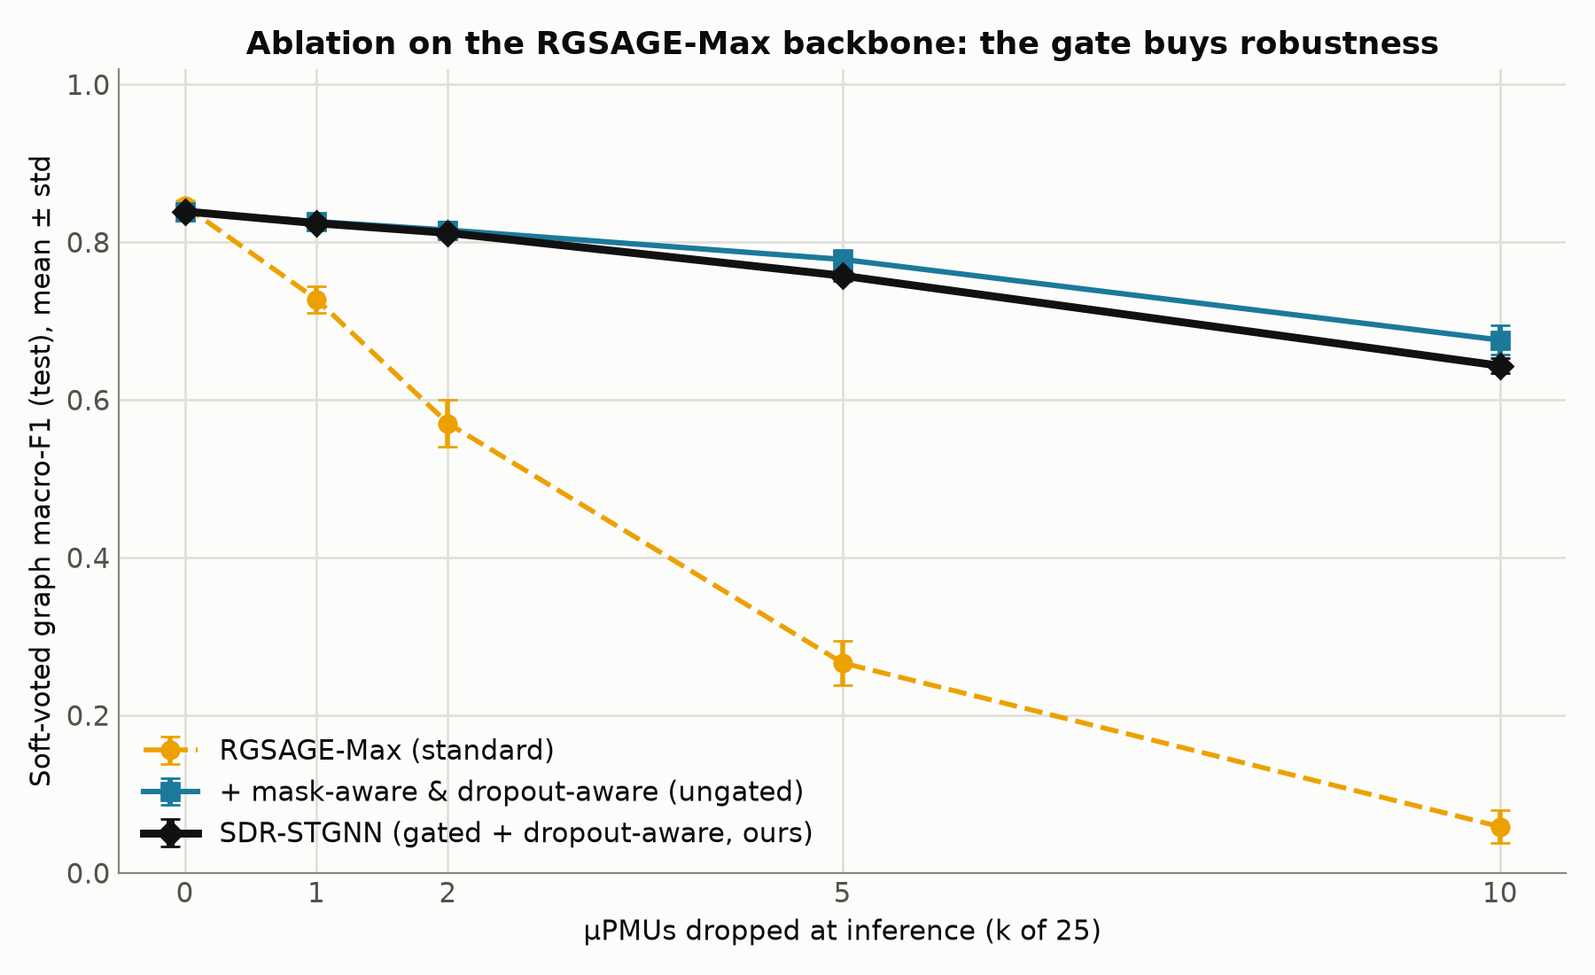
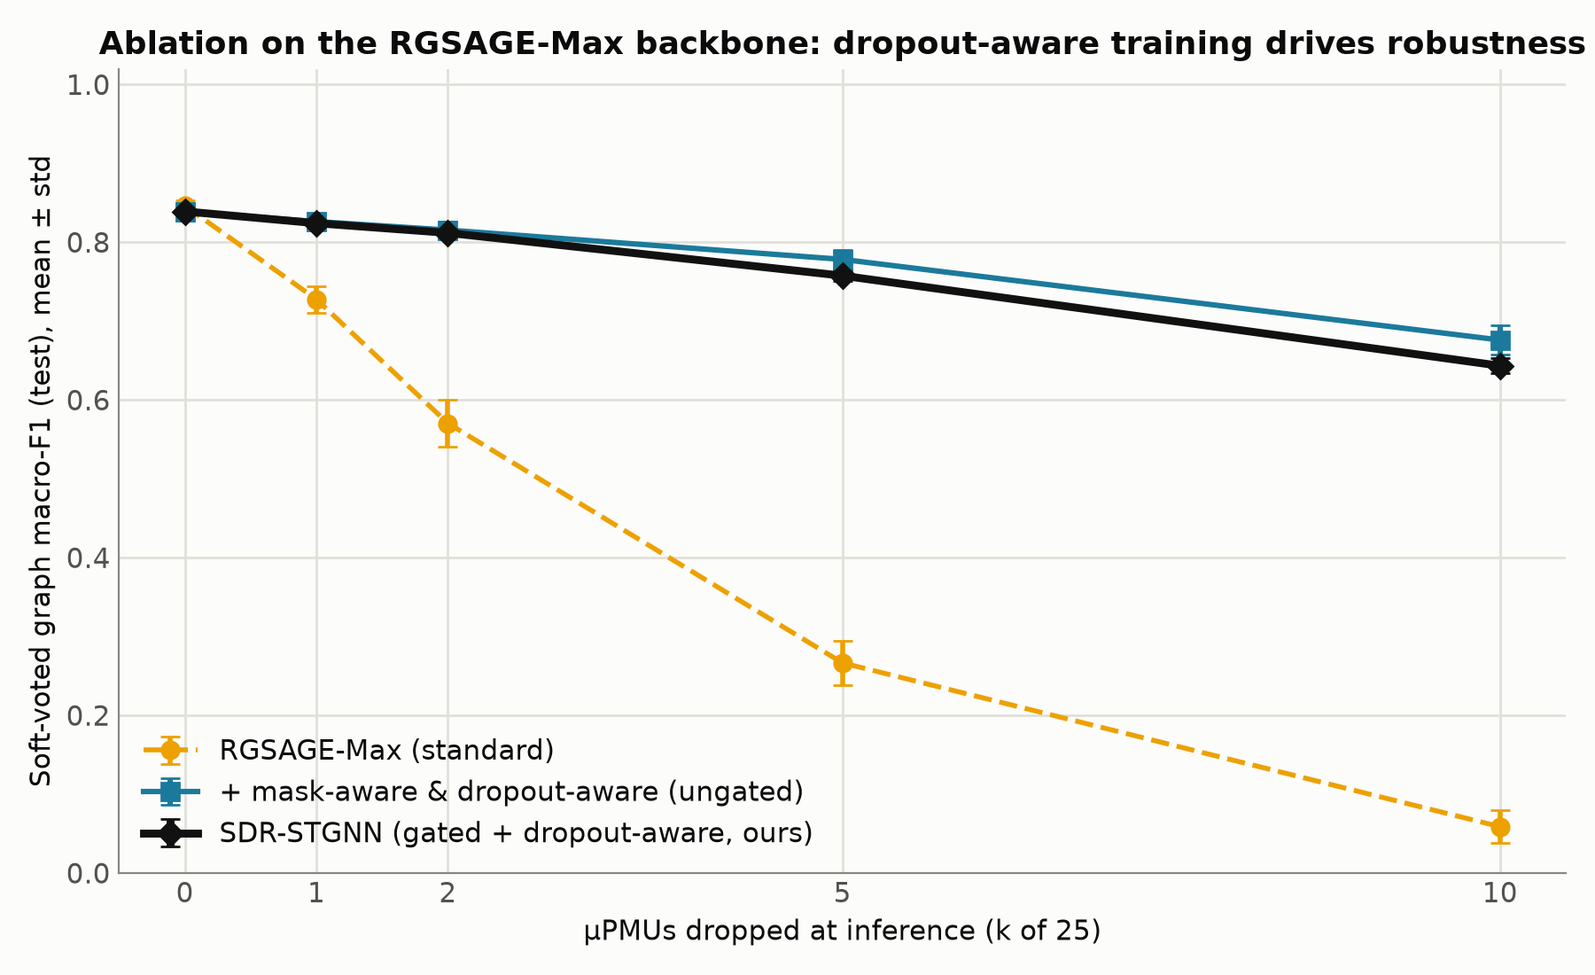
Green feeder removed the claim

Changed region(s): [[0.0622, 0.0309, 0.9956, 0.0618]]

diff --git a/paper/overleaf.tex b/paper/overleaf.tex
@@ -211,7 +211,7 @@ Power System \sep fault location \sep Time Series \sep Graph Neural Networks \se
 
 Rapid and accurate fault localization in electrical power distribution grids is essential for automated restoration in modern power distribution grids. As feeders absorb growing shares of DERs and adopt self-healing schemes, how effectively and precisely a system can identify where a fault occurred - not merely that one occurred - determines how much of the network can be re-energized before crews are dispatched. Traditional impedance-based and traveling-wave methods assume dense measurement coverage across the feeder. In practice, micro-phasor measurement units ($\mu$PMUs) are installed at only a few buses because they are costly and require communication infrastructure, so a feeder with hundreds of buses may host only a handful of $\mu$PMUs. Any practical fault-localization method must therefore operate under partial observability.
  
-Graph neural networks (GNNs) are a natural fit for this setting, as the feeder's known topology can be encoded as a graph over which message passing shares information between connected buses, letting the model infer a fault even at a bus with no measurement device. Karabulut et al.~\cite{Karabulut2026} demonstrated this with a spatio-temporal graph neural network (STGNN) that pairs a GRU temporal encoder with a graph stage (RGCN, RGSAGE, or RGATv2). They evaluated these models on the IEEE 123-bus feeder with 25 sparsely placed $\mu$PMUs, 25 possible fault locations, 11 fault types, and three fault resistances, predicting one of 26 classes (25 fault locations and one no-fault class) over a measured-only graph whose nodes are the instrumented buses. Their STGNN models achieved a macro-F1 of about 94.7--94.9\%, against 86.3\% for a GRU-only model; under a reconfigured feeder with weaker fault signals they held 86.2--87.9\%, while the GRU-only model fell to 75.5\%.
+Graph neural networks (GNNs) are a natural fit for this setting, as the feeder's known topology can be encoded as a graph over which message passing shares information between connected buses, letting the model infer a fault even at a bus with no measurement device. Karabulut et al.~\cite{Karabulut2026} demonstrated this with a spatio-temporal graph neural network (STGNN) that pairs a GRU temporal encoder with a graph stage (RGCN, RGSAGE, or RGATv2). They evaluated these models on the IEEE 123-bus feeder with 25 sparsely placed $\mu$PMUs, 25 possible fault locations, 11 fault types, and three fault resistances, predicting one of 26 classes (25 fault locations and one no-fault class) over a measured-only graph whose nodes are the instrumented buses. Their STGNN models achieved a macro-F1 of about 94.7--94.9\%, against 86.3\% for a GRU-only model.
  
 This result, however, rests on an assumption that does not hold in deployed systems: that every $\mu$PMU is always available. Real sensors drop out --- through communication loss, maintenance, or hardware failure --- and a model trained and evaluated only with a complete sensor set carries no guarantee of degrading gracefully when some of its inputs go dark. Prior work on incomplete measurement addresses a different regime. Chen et al.~\cite{chen2020} study a static GCN's robustness to data loss on the IEEE 123-bus feeder and improve it with a data-augmentation procedure, but treat a single, non-temporal architecture and do not characterize how accuracy falls as sensors are progressively lost. Zhang et al.~\cite{zhang2025} restore missing measurements via graph Dirichlet imputation ahead of contrastive GCN classification, and Fan et al.~\cite{fan2024} target measurement noise with a variational graph autoencoder --- both recover the missing signal rather than asking a fixed model to degrade gracefully without it. To the best of our knowledge, no prior work has characterized how STGNN-based fault localization degrades as $\mu$PMUs fail at inference time, nor compared training- and architecture-level mitigations for it under a common protocol.
  
@@ -653,18 +653,236 @@ together with the retention and AUDC summaries defined there.
 
 \section{Results}
 \label{sec:results}
- 
+
+This section reports three results in sequence. We first establish the reproduced
+baselines under full observability (Section~\ref{sec:res-baseline}), which fixes the
+reference point for everything that follows. We then quantify how these fixed models
+degrade as $\mu$PMUs are removed at inference time (Section~\ref{sec:res-degrade}), the
+paper's central measurement. Finally we show how much of that lost accuracy dropout-aware
+training recovers, and where the availability-gated SDR-STGNN stands relative to it
+(Section~\ref{sec:res-aware}). All numbers are computed on the frozen test split of
+Table~\ref{tab:dataset}; the strongest baseline (RGSAGE-Max) and the two robustness
+variants are reported as mean\,$\pm$\,standard deviation over three training seeds
+(42/43/44), and the remaining four baselines as single seed-42 runs
+(Section~\ref{sec:setup}).
+
 \subsection{Baseline Accuracy Under Full Observability}
+\label{sec:res-baseline}
 
- 
+Table~\ref{tab:baseline} reports the five reproduced baselines at $k=0$. The four
+spatio-temporal models separate cleanly from the temporal-only GRU: RGSAGE-Max is
+strongest at a soft-voted macro-F1 of $0.846\pm0.006$, followed by RGSAGE-Mean (0.811)
+and RGCN (0.729), while the GRU reaches only 0.296. The gap between the GRU and every GNN
+confirms the central premise of the task --- because 19 of the 25 fault locations are
+never directly instrumented (Section~\ref{sec:methods}), a model that classifies each
+$\mu$PMU from its own measurements alone cannot localize faults that occur away from a
+sensor, and only spatial message passing recovers them. Per-window accuracy tracks the
+soft-voted graph score in the same order but sits below it for every model, confirming
+that pooling the 25 node predictions by soft voting is what lifts a noisier per-node
+signal into a reliable graph-level decision.
+
+Accuracy falls monotonically with fault resistance for all models: RGSAGE-Max scores
+$0.949$ at $0.1\,\Omega$ but $0.676$ at $10\,\Omega$, and the same $0.1>1>10\,\Omega$
+ordering holds for every baseline. This is the behaviour foreshadowed by the fault
+signatures of Fig.~\ref{fig:sig} --- a $10\,\Omega$ high-impedance fault sags the nearest
+channel by under $0.02$\,p.u., leaving little signal to propagate --- and makes
+high-impedance faults the hardest operating point throughout the study. Detection, as
+opposed to localization, is essentially saturated: the no-fault recall is $1.000$ for
+every model and the no-fault precision is at least $0.941$, so no model confuses a faulted
+window for a healthy one; the difficulty is entirely in locating the fault, not in sensing
+that one occurred. One deviation from \cite{Karabulut2026} is notable: RGATv2, the
+strongest model in the base paper, is the weakest GNN here (0.610). Its training exhibited
+a late-epoch validation spike absorbed by best-checkpoint selection, consistent with
+attention instability at the four-hop depth we adopt (Section~\ref{sec:setup}); we report
+the value as observed rather than tuning it away.
+
+% Baseline full-observability table. Numbers verified against results/fullscale_final/*/seed_00042/metrics.json
+% and predictions_test.csv; RGSAGE-Max is mean±pstd over seeds 42/43/44.
+\begin{table}[!ht]
+\centering
+\caption{Baseline localization accuracy under full observability ($k=0$) on the frozen
+test split. Columns report soft-voted graph-level macro-F1, per-window macro-F1, macro-F1
+resolved by fault resistance, and no-fault (class~0) precision/recall. RGSAGE-Max is
+reported as mean\,$\pm$\,standard deviation over three seeds (42/43/44); the other four
+models are single seed-42 runs.}
+\label{tab:baseline}
+\footnotesize
+\begin{tabular}{@{}lccccccc@{}}
+\toprule
+Model & Soft-vote & Per-window & \multicolumn{3}{c}{Macro-F1 by resistance} & \multicolumn{2}{c}{No-fault} \\
+\cmidrule(lr){4-6}\cmidrule(l){7-8}
+ & F1 & F1 & $0.1\,\Omega$ & $1\,\Omega$ & $10\,\Omega$ & Prec. & Rec. \\
+\midrule
+RGSAGE-Max  & $\mathbf{0.846{\pm}0.006}$ & $0.718{\pm}0.006$ & 0.949 & 0.893 & 0.676 & 0.980 & 1.000 \\
+RGSAGE-Mean & 0.811 & 0.689 & 0.924 & 0.846 & 0.633 & 0.993 & 1.000 \\
+RGCN        & 0.729 & 0.619 & 0.904 & 0.807 & 0.460 & 1.000 & 1.000 \\
+RGATv2      & 0.610 & 0.537 & 0.702 & 0.666 & 0.409 & 0.991 & 1.000 \\
+GRU         & 0.296 & 0.153 & 0.461 & 0.278 & 0.092 & 0.941 & 1.000 \\
+\bottomrule
+\end{tabular}
+\end{table}
+
+Table~\ref{tab:baseline} also settles the reproduction question raised in
+Section~\ref{sec:methods}: the four-hop depth we adopt is what closes the gap to the
+reported accuracy. A single-seed depth sweep on RGSAGE-Max (Table~\ref{tab:depth}) shows
+macro-F1 rising monotonically from $0.509$ at one hop to $0.806$ at four hops, with no sign
+of over-smoothing; the frozen four-hop recipe used everywhere else in this paper, trained
+for the full 30 epochs with stabilization (Section~\ref{sec:setup}), then reaches $0.846$.
+Because only $6$ of $25$ fault buses are instrumented, a single hop cannot reach faults
+that lie two or more hops from any $\mu$PMU, and the receptive field --- not the choice of
+aggregator --- is what governs accuracy at this observability. These intermediate-depth
+points are single diagnostic runs at a reduced training budget and are reported only to
+establish the trend, not as tuned operating points.
+
+% Depth ablation: single-seed diagnostic runs.
+% depth1=results/diag_depth1_epochs30 (30 ep), depth2/3/4=results/diag_depth{2,3,4} (15 ep).
+% Frozen 4-hop/30-epoch/stabilized value = results/diag_depth4_epochs30_stable (seed 42).
+\begin{table}[!ht]
+\centering
+\caption{Effect of spatial depth on RGSAGE-Max soft-voted macro-F1 (single-seed diagnostic
+runs). Depths 1--4 use a reduced 15-epoch budget (depth~1 shown at 30 epochs); the
+right-most column is the frozen four-hop, 30-epoch, stabilized recipe adopted for all other
+experiments.}
+\label{tab:depth}
+\footnotesize
+\begin{tabular}{@{}lccccc@{}}
+\toprule
+Spatial hops & 1 & 2 & 3 & 4 & 4 (frozen recipe) \\
+\midrule
+Macro-F1 & 0.509 & 0.571 & 0.751 & 0.806 & \textbf{0.846} \\
+\bottomrule
+\end{tabular}
+\end{table}
+
 \subsection{Accuracy Degradation Under Sensor Dropout}
+\label{sec:res-degrade}
 
- 
-\subsection{Effect of Feeder Reconfiguration (``Green'' Scenario)}
+We now freeze each baseline and evaluate it under the dropout sweep of
+Section~\ref{sec:dropout-eval}, removing $k\in\{0,1,2,5,10\}$ of the $25$ $\mu$PMUs at
+inference. Table~\ref{tab:degradation} reports the resulting degradation curves together
+with the AUDC and the retention at the heaviest dropout ($k=10$, $40\%$ of sensors lost),
+and Fig.~\ref{fig:degradation} plots the full curves. Every model loses accuracy as sensors
+are removed, and the loss is severe at high dropout: no baseline retains more than a fifth
+of its full-observability macro-F1 at $k=10$.
 
- 
+The central finding is an inversion between accuracy and robustness. RGSAGE-Max, the most
+accurate model at full observability, is the \emph{least} robust to dropout: its macro-F1
+collapses from $0.846$ to $0.059$ at $k=10$ (AUDC $0.414$, retaining only $7.0\%$ of its
+$k=0$ score), the steepest fall of any baseline. RGCN, the middle-accuracy model, is the
+most robust (AUDC $0.586$, retaining $19.9\%$), and RGSAGE-Mean and RGATv2 sit between the
+two. Ranking models by clean accuracy therefore does not predict their behaviour under
+sensor loss --- if anything it anti-predicts it. The mechanism is consistent with the
+aggregators: a dropped node keeps its edges but propagates a zeroed embedding
+(Section~\ref{sec:dropout-eval}), and max-aggregation, which selects a single dominant
+neighbour, is the most exposed to such a corrupted message being injected into a live
+node's neighbourhood, whereas mean- and normalized-sum aggregation dilute it. This
+sensitivity is precisely what the availability gate of Section~\ref{sec:sdr} is designed to
+remove, and what dropout-aware training teaches the network to tolerate.
+
+% Baseline degradation. F1 means from results/dropout_study/degradation_curves.csv;
+% AUDC/retention = normalized trapezoid of F1(k)/F1(0) over k in {0,1,2,5,10}.
+\begin{table}[!ht]
+\centering
+\caption{Baseline degradation under sensor dropout: soft-voted macro-F1 as $k$ of the $25$
+$\mu$PMUs are dropped at inference. AUDC is the normalized area under the retention curve
+$\mathrm{F1}(k)/\mathrm{F1}(0)$ over the swept $k$ (higher = more robust); Ret.@10 is the
+fraction of the $k=0$ score retained at $k=10$. Each point is the mean over three shared
+mask realizations; per-point mask-realization standard deviation is below $0.03$ for all
+models, and RGSAGE-Max additionally averages over seeds 42/43/44.}
+\label{tab:degradation}
+\footnotesize
+\begin{tabular}{@{}lccccccc@{}}
+\toprule
+Model & $k{=}0$ & $k{=}1$ & $k{=}2$ & $k{=}5$ & $k{=}10$ & AUDC & Ret.@10 \\
+\midrule
+RGCN        & 0.729 & 0.669 & 0.598 & 0.419 & 0.145 & \textbf{0.586} & \textbf{19.9\%} \\
+RGATv2      & 0.610 & 0.543 & 0.476 & 0.305 & 0.101 & 0.536 & 16.6\% \\
+RGSAGE-Mean & 0.811 & 0.709 & 0.615 & 0.400 & 0.151 & 0.533 & 18.6\% \\
+GRU         & 0.296 & 0.285 & 0.251 & 0.080 & 0.044 & 0.461 & 14.9\% \\
+RGSAGE-Max  & 0.846 & 0.728 & 0.570 & 0.267 & 0.059 & 0.414 & 7.0\% \\
+\bottomrule
+\end{tabular}
+\end{table}
+
+\begin{figure}[!ht]
+\centering
+\includegraphics[width=0.85\linewidth]{figures/sdr_degradation_all.png}
+\caption{Soft-voted graph-level macro-F1 as $k$ of the 25 $\mu$PMUs are dropped at
+inference, for the five baselines and the availability-gated SDR-STGNN (black; introduced
+in Section~\ref{sec:res-aware}). Markers are means; error bars denote $\pm 1$ standard
+deviation over the three shared mask realizations, and additionally over training seeds
+42/43/44 for RGSAGE-Max and SDR-STGNN. RGSAGE-Max (orange), the most accurate baseline at
+$k=0$, degrades the fastest, whereas SDR-STGNN --- trained with dropout-aware augmentation
+--- stays nearly flat.}
+\label{fig:degradation}
+\end{figure}
+
 \subsection{Effect of Dropout-Aware Training}
- 
+\label{sec:res-aware}
+
+The degradation of RGSAGE-Max motivates the two mitigations of
+Sections~\ref{sec:dropout-aware} and~\ref{sec:sdr}, both built on that same backbone.
+Table~\ref{tab:aware} and Fig.~\ref{fig:ablation} compare three variants on the identical
+dropout sweep: standard training, dropout-aware training, and the availability-gated
+SDR-STGNN (itself trained dropout-aware).
+
+Dropout-aware training changes the degradation behaviour of RGSAGE-Max fundamentally. Its
+AUDC rises from $0.414$ to $0.916$, and its retention at $k=10$ improves from $7.0\%$ to
+$80.6\%$: where the standard model collapses to $0.059$ with $40\%$ of sensors lost, the
+dropout-aware model still scores $0.676\pm0.019$ --- an absolute recovery of $0.617$
+macro-F1 points at that operating point. This robustness is bought at negligible cost to
+clean accuracy: the dropout-aware model scores $0.839\pm0.011$ at $k=0$ versus
+$0.846\pm0.007$ for standard training, a difference within one standard deviation, and it
+adds no parameters and no inference-time computation (Section~\ref{sec:dropout-aware}).
+Almost all of the accuracy previously lost to sensor dropout is recovered by training-time
+masking alone.
+
+The availability-gated SDR-STGNN matches this behaviour but does not exceed it. Its AUDC is
+$0.895$ and its $k=10$ retention $76.7\%$ --- both marginally below the ungated
+dropout-aware model, and its curve lies just under the dropout-aware curve at every
+$k\ge1$. The three variants coincide at $k=0$ by construction (Eq.~\ref{eq:gate}), and the
+gap that opens under dropout runs the opposite way from the architectural hypothesis:
+structurally silencing dropped sensors does not add robustness beyond what the training
+augmentation already provides, and slightly reduces it, because hard gating also suppresses
+messages that could otherwise route through a node's still-live neighbours. We therefore
+report dropout-aware training, not the gate, as the effective mitigation: the simpler,
+architecture-agnostic training method is sufficient, and the structural change earns its
+place only as the ablation that isolates this conclusion.
+
+% Dropout-aware comparison. standard/aware = results/dropout_study{,_aware}/degradation_curves.csv
+% (RGSAGE-Max, seeds 42/43/44); sdr = results/dropout_study_sdr/degradation_curves.csv (SDR-STGNN, seeds 42/43/44).
+\begin{table}[!ht]
+\centering
+\caption{Effect of the two mitigations on the RGSAGE-Max backbone under sensor dropout:
+soft-voted macro-F1 (mean\,$\pm$\,std over seeds 42/43/44) at each dropout level $k$, with
+AUDC and $k=10$ retention. Dropout-aware training recovers most of the accuracy lost to
+sensor loss; the availability-gated SDR-STGNN matches but does not exceed it.}
+\label{tab:aware}
+\footnotesize
+\begin{tabular}{@{}lcccccc@{}}
+\toprule
+Variant & $k{=}0$ & $k{=}2$ & $k{=}5$ & $k{=}10$ & AUDC & Ret.@10 \\
+\midrule
+Standard training      & $0.846{\pm}0.007$ & $0.570{\pm}0.030$ & $0.267{\pm}0.028$ & $0.059{\pm}0.020$ & 0.414 & 7.0\% \\
+Dropout-aware training & $0.839{\pm}0.011$ & $\mathbf{0.816{\pm}0.011}$ & $\mathbf{0.778{\pm}0.012}$ & $\mathbf{0.676{\pm}0.019}$ & \textbf{0.916} & \textbf{80.6\%} \\
+SDR-STGNN (gated)      & $0.839{\pm}0.002$ & $0.812{\pm}0.005$ & $0.758{\pm}0.006$ & $0.643{\pm}0.010$ & 0.895 & 76.7\% \\
+\bottomrule
+\end{tabular}
+\end{table}
+
+\begin{figure}[!ht]
+\centering
+\includegraphics[width=0.85\linewidth]{figures/sdr_ablation_backbone.png}
+\caption{Sensor-dropout ablation on the RGSAGE-Max backbone: standard training (orange,
+dashed), dropout-aware training (blue), and the availability-gated SDR-STGNN (black), all
+trained and evaluated identically. Markers are means over seeds 42/43/44; error bars denote
+$\pm 1$ standard deviation. Both robustness variants nearly coincide and remain far above
+standard training at every dropout level; the ungated dropout-aware model is marginally
+above the gated SDR-STGNN for $k\ge5$, so the structural gate does not improve on the
+training-time augmentation. Tabulated in Table~\ref{tab:aware}.}
+\label{fig:ablation}
+\end{figure}
+
 \section{Discussion}
 \label{sec:discussion}
  

diff --git a/scripts/build_sdr_result_figures.py b/scripts/build_sdr_result_figures.py
@@ -145,7 +145,7 @@ def fig_ablation_backbone(variants, out_path, k_levels):
     ax.set_xticks(k_levels)
     ax.set_xlabel("μPMUs dropped at inference (k of 25)")
     ax.set_ylabel("Soft-voted graph macro-F1 (test), mean ± std")
-    ax.set_title("Ablation on the RGSAGE-Max backbone: the gate buys robustness")
+    ax.set_title("Ablation on the RGSAGE-Max backbone: dropout-aware training drives robustness")
     ax.set_ylim(0, 1.02); ax.legend(frameon=False, loc="lower left")
     fig.tight_layout(); fig.savefig(out_path, dpi=200); plt.close(fig)
 

diff --git a/NEXT-STEPS.md b/NEXT-STEPS.md
@@ -12,10 +12,13 @@
   any further depth/epoch/scale probes, exact-0.86 chasing.
 - **Measurement noise: DROPPED entirely.** PROBLEM.md §5 mentions it as optional;
   no noise-injection code exists and none will be added. Not in scope for this paper.
-- **Green feeder: CORE, not optional** — kept in scope per PROBLEM.md §5 ("*especially*
-  in the challenging reconfigured green feeder scenario"), but sequenced LAST (Step 6,
-  after the default-feeder dropout study). Cut only if compute genuinely runs out after
-  Steps 1–5 — it is not the first thing to cut, it is the last.
+- **Green feeder: CUT (decision 2026-08-04).** Dropped from scope entirely. It is a
+  stress test on a second robustness axis (topology change), not an accuracy/contribution
+  booster for the conference paper — the base paper's own STGNNs merely *degrade* under
+  reconfiguration. It does not strengthen the headline dropout-aware-training story enough
+  to justify the extra green-dataset simulation before the deadline. Do NOT run it; do NOT
+  claim it. The abstract/intro no longer promise it and the empty Results subsection has
+  been removed from `paper/overleaf.tex`. Step 6 below is VOID.
 - We are shipping a SCOPED paper. The contribution is the SENSOR-DROPOUT STUDY applied
   to the existing models — NOT a brand-new network architecture.
 
@@ -105,15 +108,11 @@ Only after the contribution results exist:
 - Recompute all reported numbers as mean ± std over the 3 seeds.
 - This adds error bars for the paper; it is NOT a blocker for earlier steps.
 
-## STEP 6 — Green feeder dropout study (CORE, sequenced last)
-Not optional — kept in scope per PROBLEM.md §5, but deliberately sequenced after the
-default-feeder contribution work so the core result exists first regardless of remaining
-time:
-- Generate the green/reconfigured dataset (open 60–160, close 54–94).
-- Repeat 4a/4b (degradation curves + dropout-aware training) on it, same frozen config.
-- Report the same summary table/figures as Step 4, for the green feeder.
-- Cut this ONLY if compute genuinely runs out after Steps 1–5 — it is the last thing
-  to cut, not the first.
+## STEP 6 — Green feeder dropout study — ❌ CUT (2026-08-04), VOID
+Removed from scope. It was a second-axis robustness stress test (topology change), not a
+contribution booster, and needed a new green simulation corpus we won't spend before the
+deadline. No green dataset, no green runs, no green claims. `configure_green_feeder` stays
+in the code as dead/future-work only. Nothing to do here.
 
 ---
 

diff --git a/WRONG-CLAIMS.md b/WRONG-CLAIMS.md
@@ -1,6 +1,6 @@
 ## Three gaps between "this chain" and "full paper"
 
-1. The "green"/reconfigured-feeder scenario is promised but has no runs. Your abstract (line 183) and intro (line 222) both claim results "under a reconfigured ('green') feeder topology." Nothing in our plan generates that — no green dataset, no green runs. So either we (a) build + run a green-feeder experiment (extra work), or (b) cut that claim from the abstract/intro. This is a real decision. (This is the biggest gap.)
+1. ~~The "green"/reconfigured-feeder scenario is promised but has no runs.~~ **RESOLVED — CUT (2026-08-04).** Decision: option (b), drop it entirely. It's a second-axis robustness stress test, not a contribution/accuracy booster, and would need a new green simulation corpus we won't spend before the Aug 15 deadline. Actions taken: removed the green expectation from the intro and deleted the empty "Effect of Feeder Reconfiguration" Results subsection in `paper/overleaf.tex`; marked Step 6 VOID in `NEXT-STEPS.md`. `configure_green_feeder` remains in code as dead/future-work only. The rest of this section is kept for historical context (the reasoning behind the cut).
 
 
 Ans) The green feeder is a stress test, not a booster. It's a harder condition (the grid topology changes), so models typically do worse on it — the base paper's STGNNs drop to 86–88% and the GRU to 75.5% under reconfiguration. Adding it does not improve your normal-feeder numbers; it produces a new result on a second robustness axis. The story you'd tell is "SDR-STGNN degrades less than the baselines under topology change too" — a robustness claim, not an accuracy gain. It strengthens the paper's argument, not the headline F1.

diff --git a/CLAUDE.md b/CLAUDE.md
@@ -118,9 +118,10 @@ per-model `{gru,rgcn,rgsage_mean,rgsage_max,rgatv2,sdr_stgnn}.yaml` (each `base:
   nodes). **Report faithfully — do not claim the gate wins.**
 - **Multi-seed (50-run):** SDR-STGNN + dropout-aware RGSAGE-Max trained at seeds 42/43/44
   (deviation from the runbook's single-seed; run via a scratchpad orchestrator, autonomous).
-- **Green-feeder scenario** promised in the abstract but NOT run — code `configure_green_feeder`
-  exists; it's a generalization test → generate a green dataset + evaluate existing checkpoints,
-  **NO retraining**. See `WRONG-CLAIMS.md`.
+- **Green-feeder scenario: ❌ CUT (2026-08-04), out of scope.** Not a contribution booster
+  (a second-axis stress test only) and would need a new green corpus — dropped before the
+  deadline. No green dataset/runs/claims; `configure_green_feeder` stays as dead/future-work
+  code. Paper no longer promises it. See `WRONG-CLAIMS.md` #1 / `NEXT-STEPS.md` Step 6 (VOID).
 - Stabilization (grad-clip 1.0 + warmup 3) on EVERY run. GPU = T1000 8GB (NVML monitoring
   broken but training unaffected).
 
